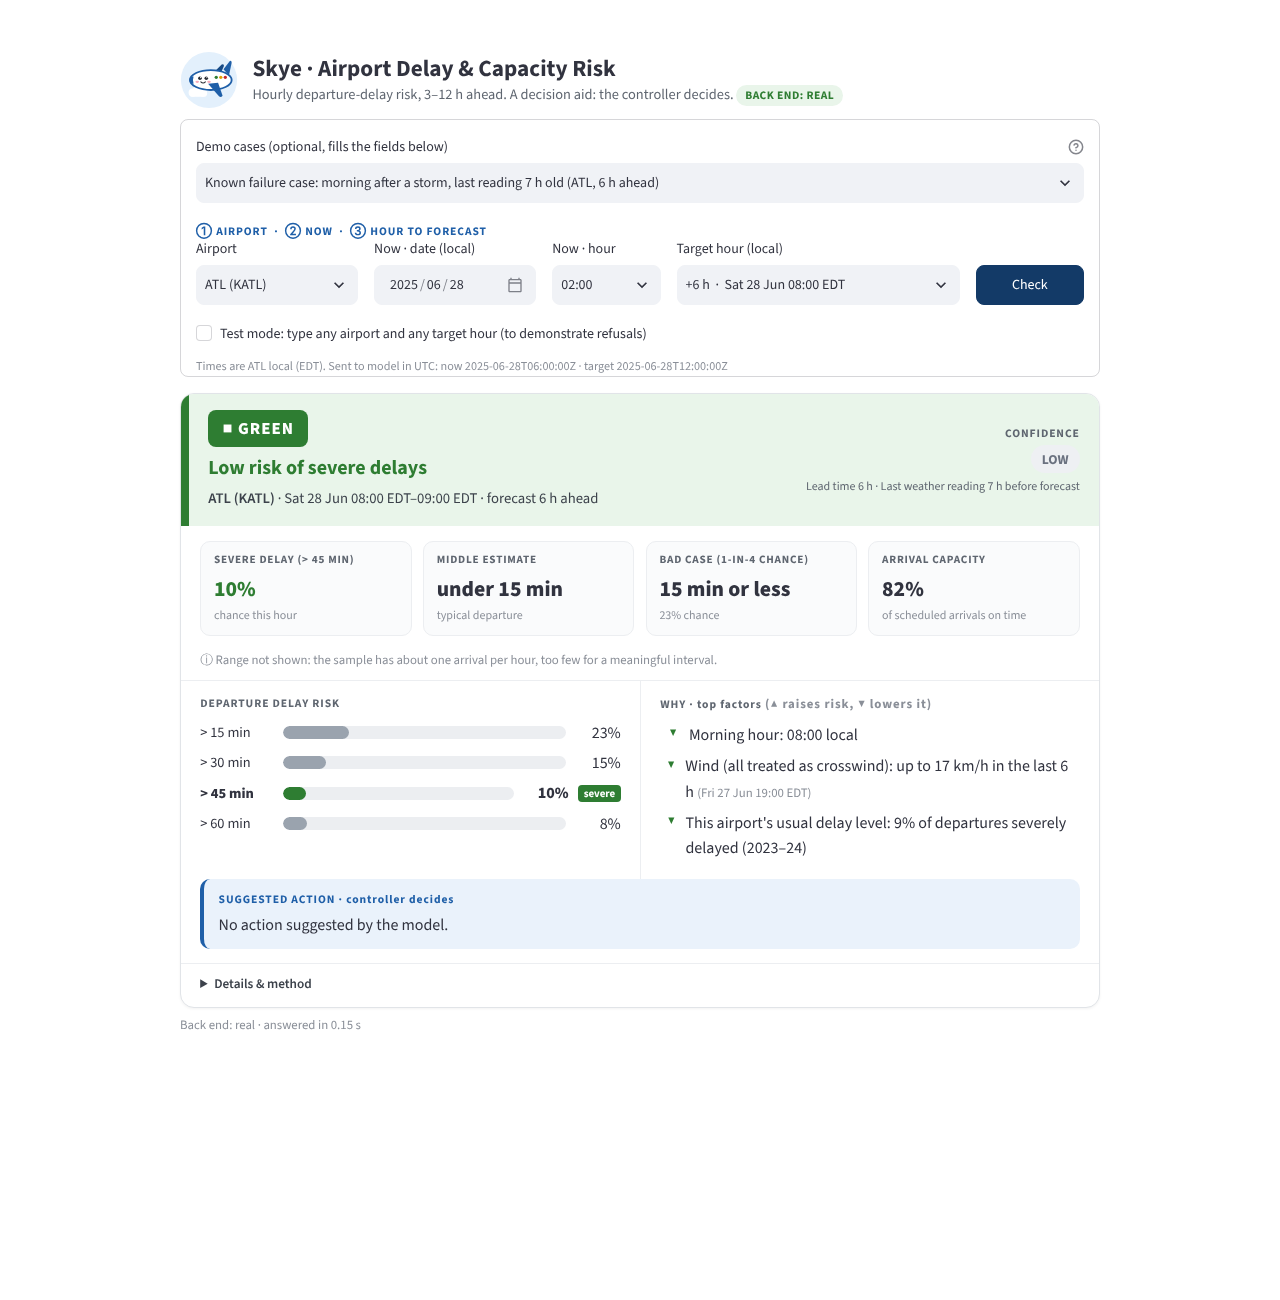
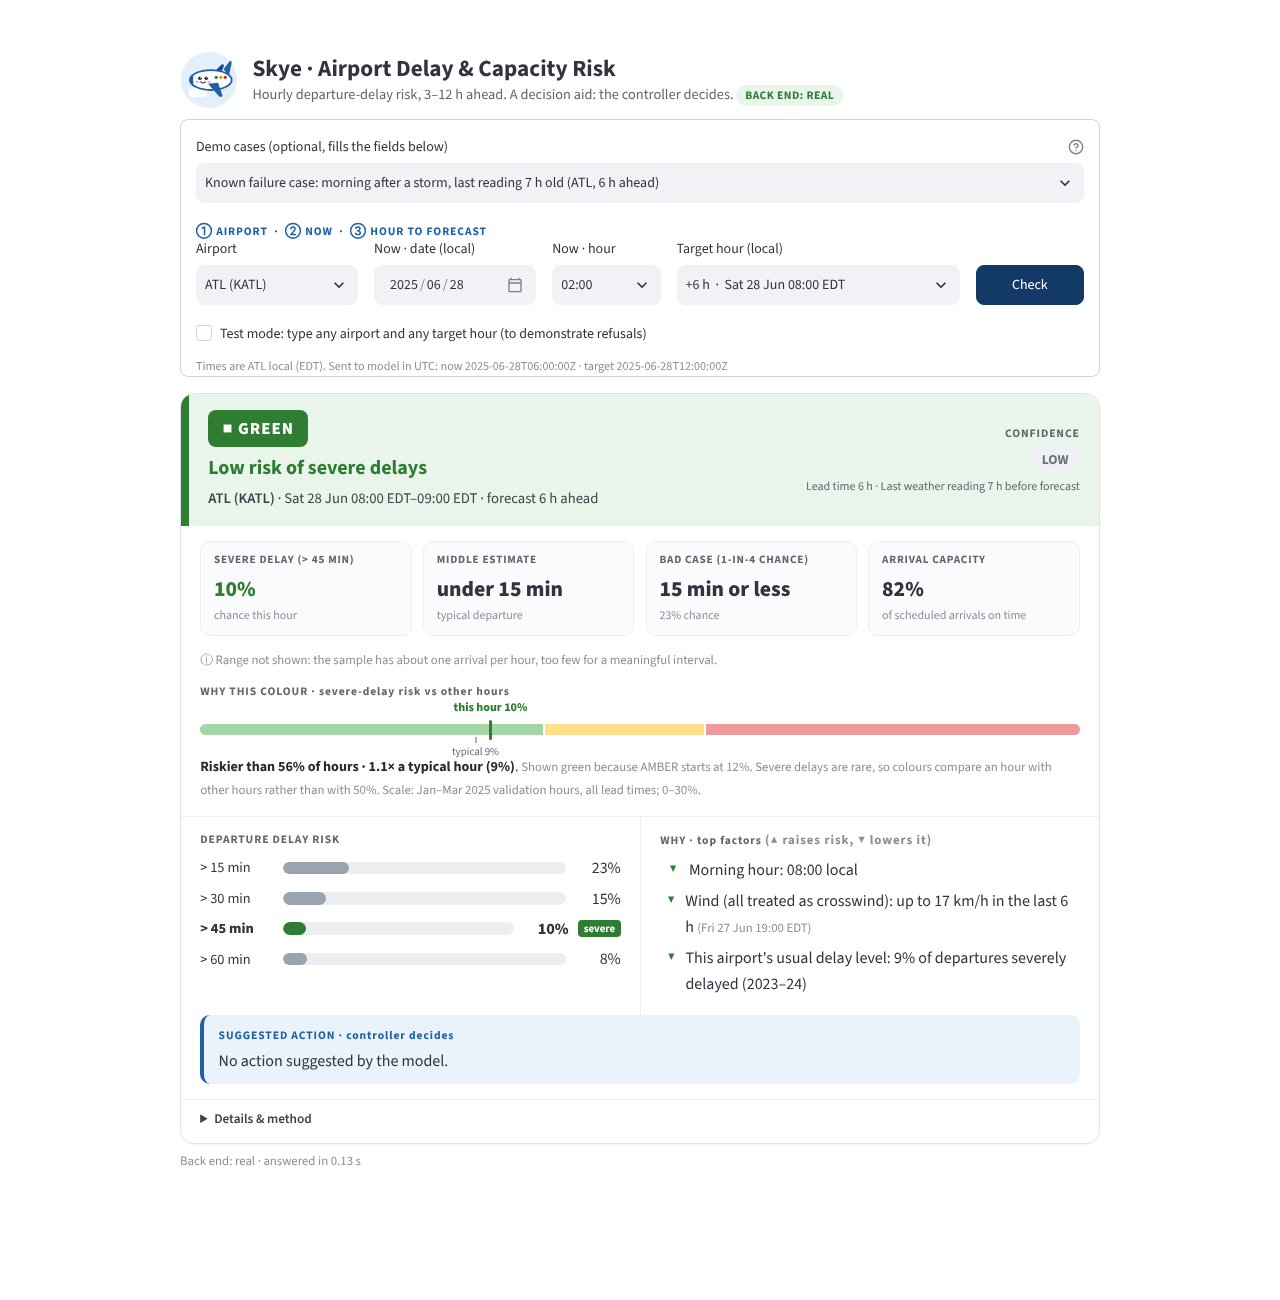
Contract v1.2: risk_context + 'why this colour' marker scale and justification (no retraining)

Changed region(s): [[0.1562, 0.5231, 0.8438, 0.8308], [0.75, 0.6769, 0.8125, 0.7077], [0.4375, 0.7077, 0.5, 0.7385]]

diff --git a/frontend/app.py b/frontend/app.py
@@ -80,6 +80,17 @@ details.more {padding:0.55rem 1.2rem 0.8rem; border-top:1px solid #eceef1; font-
 details.more summary {cursor:pointer; font-weight:600; color:#3c424b;}
 details.more div {margin-top:0.3rem;}
 .foot {margin-top:0.45rem;}
+.scale {padding:0.1rem 1.2rem 0.9rem;}
+.scale .bar {position:relative; display:flex; height:0.7rem; border-radius:99px; overflow:visible; margin:1.5rem 0 1.3rem;}
+.scale .z {height:100%;} .scale .z.g {background:#a5d6a7; border-radius:99px 0 0 99px;}
+.scale .z.a {background:#ffe08a;} .scale .z.r {background:#ef9a9a; border-radius:0 99px 99px 0;}
+.scale .mk {position:absolute; top:-1.45rem; font-size:0.75rem; font-weight:800;
+            white-space:nowrap; text-align:center; line-height:1;}
+.scale .ln {position:absolute; top:-0.3rem; height:1.25rem; width:3px; margin-left:-1.5px; border-radius:2px;}
+.scale .ty {position:absolute; top:1.05rem; transform:translateX(-50%); font-size:0.68rem; color:#5f6670; white-space:nowrap;}
+.scale .ty::before {content:''; display:block; width:1px; height:0.35rem; background:#5f6670; margin:-0.25rem auto 0.05rem;}
+.scale .cut {position:absolute; top:0; bottom:0; width:2px; background:#fff;}
+.scale .just {font-size:0.88rem; color:#262b33;} .scale .just b {font-weight:700;}
 /* other states */
 .empty {display:flex; align-items:center; gap:1rem; padding:1.2rem; border:1px dashed #c9d6e6;
         border-radius:14px; background:#f6f9fd; color:#3c424b;}
@@ -258,6 +269,24 @@ def ok_card(v: dict) -> str:
         tiles += _tile("Arrival capacity", escape(c["text"].split(" ")[0]),
                        "of scheduled arrivals on time")
 
+    sc = v.get("risk_scale")
+    scale = ""
+    if sc:
+        scale = (f"<div class='scale'><div class='sec-title'>WHY THIS COLOUR · severe-delay risk vs other hours</div>"
+                 f"<div class='bar'>"
+                 f"<div class='z g' style='width:{sc['amber']}%'></div>"
+                 f"<div class='z a' style='width:{sc['red'] - sc['amber']}%'></div>"
+                 f"<div class='z r' style='width:{100 - sc['red']}%'></div>"
+                 f"<span class='cut' style='left:{sc['amber']}%'></span><span class='cut' style='left:{sc['red']}%'></span>"
+                 f"<span class='ty' style='left:{sc['typical']}%'>typical {sc['typical_text']}</span>"
+                 f"<span class='mk' style='left:{sc['marker']}%; color:{col}; transform:translateX({sc['label_shift']}%)'>"
+                 f"this hour {sc['marker_text']}{' ▸' if sc['beyond'] else ''}</span>"
+                 f"<span class='ln' style='left:{sc['marker']}%; background:{col}'></span>"
+                 f"</div>"
+                 f"<div class='just'><b>{escape(sc['justification'])}</b>. "
+                 f"<span class='muted'>{escape(sc['why_colour'])} Scale: {escape(sc['basis'])}; "
+                 f"0–{sc['top_text']}.</span></div></div>")
+
     rows = "".join(
         f"<div class='row{' severe' if r['severe'] else ''}'><span class='lab'>{r['label']}</span>"
         f"<div class='track'><div class='fill' style='width:{r['width']:.1f}%"
@@ -299,7 +328,7 @@ def ok_card(v: dict) -> str:
     foot = (f"<div class='muted foot'>Back end: {MODE}"
             + (f" · answered in {elapsed:.2f} s" if elapsed is not None else "")
             + (" (demo data, not a forecast)" if MODE == "mock" else "") + "</div>")
-    return (f"<div class='card'>{hero}<div class='tiles'>{tiles}</div>{cap_note}"
+    return (f"<div class='card'>{hero}<div class='tiles'>{tiles}</div>{cap_note}{scale}"
             f"<div class='cols'>{risk}{why}</div>{do}{more}</div>{foot}")
 
 

diff --git a/frontend/render.py b/frontend/render.py
@@ -182,6 +182,35 @@ def delay_estimate_lines(est: dict | None) -> dict | None:
             "method": est.get("method")}
 
 
+def risk_scale_view(ctx: dict | None, p45: float | None, level: str) -> dict | None:
+    """v1.2 marker scale + one-line justification. All numbers come from the back end's
+    risk_context; this only turns them into positions (% of the bar) and words."""
+    if not ctx or p45 is None:
+        return None
+    top = ctx["scale_max"]
+
+    def pos(x):
+        return round(max(0.0, min(100.0, x / top * 100)), 1)
+
+    word = {"RED": "red", "AMBER": "amber", "GREEN": "green"}[level]
+    cut = {"RED": f"RED starts at {pct(ctx['red_min'])}",
+           "AMBER": f"AMBER starts at {pct(ctx['amber_min'])}, RED at {pct(ctx['red_min'])}",
+           "GREEN": f"AMBER starts at {pct(ctx['amber_min'])}"}[level]
+    return {
+        "marker": pos(p45), "marker_text": pct(p45),
+        # keep the label inside the bar near either end (-100% = label left of the line)
+        "label_shift": -100 if pos(p45) > 85 else (0 if pos(p45) < 15 else -50),
+        "amber": pos(ctx["amber_min"]), "red": pos(ctx["red_min"]),
+        "typical": pos(ctx["typical_p"]), "typical_text": pct(ctx["typical_p"]),
+        "beyond": p45 > top, "top_text": pct(top),
+        "justification": (f"Riskier than {ctx['percentile']}% of hours · "
+                          f"{ctx['ratio_to_typical']:.1f}× a typical hour ({pct(ctx['typical_p'])})"),
+        "why_colour": f"Shown {word} because {cut}. Severe delays are rare, so colours compare an hour "
+                      f"with other hours rather than with 50%.",
+        "basis": ctx["basis"],
+    }
+
+
 def period_banner(resp: dict) -> str | None:
     p = resp.get("data_period")
     return None if p in (None, "TEST") else PERIOD_WARNING.format(period=p)
@@ -230,6 +259,8 @@ def view_model(resp: dict) -> dict:
         "confidence_level": resp["confidence"]["level"],
         "confidence_reasons": " · ".join(resp["confidence"]["reasons"]),
         "delay_estimate": delay_estimate_lines(resp.get("delay_estimate")),
+        "risk_scale": risk_scale_view(resp.get("risk_context"), resp["hour_delay_risk"].get(f"p_gt{sev}"),
+                                      resp["risk_level"]),
         "thresholds": [f">{k}" for k in load_config()["delay_thresholds_min"]],
         "banner": period_banner(resp),
         "footer": f"Model {resp['model_version']} · generated {resp['generated_at_utc']}",

diff --git a/backend/risk_context.py b/backend/risk_context.py
@@ -1,0 +1,34 @@
+"""Where this hour's severe-delay risk sits on the scale the colours come from (v1.2).
+
+Explains the colour without changing it. The RED/AMBER cut-offs (config risk_rules, L-011) are
+the 90th/70th percentiles of hour-level P(>45) on VALIDATION. config risk_scale.quantiles holds
+the same distribution (0th–100th percentile), so:
+  typical_p        : the median validation hour (a "typical hour")
+  ratio_to_typical : P(>45) / typical_p
+  percentile       : share of validation hours with lower risk (linear between stored
+                     quantiles, capped at 99)
+run_all.py checks that the stored quantiles still match the validation predictions.
+Pure function, no model calls. Never decides the colour (backend.rules does).
+"""
+import numpy as np
+
+from backend.common import config
+
+
+def risk_context(p45: float) -> dict:
+    cfg = config()
+    rs, rr = cfg["risk_scale"], cfg["risk_rules"]
+    q = {int(k): float(v) for k, v in rs["quantiles"].items()}
+    pcts = sorted(q)
+    vals = [q[k] for k in pcts]
+    typical = q[50]
+    pctile = float(np.interp(float(p45), vals, pcts))  # clamps to 0 / 100 outside the range
+    return {
+        "typical_p": round(typical, 3),
+        "ratio_to_typical": round(float(p45) / typical, 1),
+        "percentile": min(99, int(round(pctile))),  # never "riskier than 100%"
+        "amber_min": rr["amber"]["p_gt45_min"],
+        "red_min": rr["red"]["p_gt45_min"],
+        "scale_max": float(rs["scale_max"]),
+        "basis": rs["basis"],
+    }

diff --git a/tests/test_risk_context.py b/tests/test_risk_context.py
@@ -1,0 +1,27 @@
+"""v1.2 risk_context: the explanation scale agrees with the colour cut-offs (L-027)."""
+import pytest
+
+from backend.common import config
+from backend.risk_context import risk_context
+from backend.rules import risk_level
+
+
+def test_cutoffs_sit_at_their_percentiles():
+    rr = config()["risk_rules"]
+    assert risk_context(rr["red"]["p_gt45_min"])["percentile"] == 90
+    assert risk_context(rr["amber"]["p_gt45_min"])["percentile"] == 70
+    assert risk_context(config()["risk_scale"]["quantiles"][50])["ratio_to_typical"] == 1.0
+
+
+@pytest.mark.parametrize("p", [0.0, 0.05, 0.09, 0.116, 0.117, 0.15, 0.171, 0.172, 0.25, 0.4, 0.99])
+def test_percentile_agrees_with_colour(p):
+    c, lvl = risk_context(p), str(risk_level([p])[0])
+    assert 0 <= c["percentile"] <= 99
+    assert (c["percentile"] >= 90) == (lvl == "RED") or abs(p - c["red_min"]) < 0.002
+    assert c["ratio_to_typical"] == round(p / c["typical_p"], 1)
+
+
+def test_monotonic_in_p():
+    ps = [i / 200 for i in range(0, 120)]
+    pc = [risk_context(p)["percentile"] for p in ps]
+    assert pc == sorted(pc)

diff --git a/backend/api.py b/backend/api.py
@@ -21,6 +21,7 @@ from backend.common import config, path
 from backend.features import FEATURES, MAX_OBS_AGE_H
 from backend.rules import recommendation
 from backend.delay_estimate import delay_estimate
+from backend.risk_context import risk_context
 
 SCHEMA_VERSION = config()["schema_version"]
 PKEYS = ["p_gt15", "p_gt30", "p_gt45", "p_gt60"]
@@ -177,7 +178,8 @@ def _predict(req, airport, target_hour_utc, now_utc):
         "risk_level": level, "hour_delay_risk": risk, "capacity": capacity, "drivers": why,
         "recommendation": rec, "confidence": {"level": conf, "reasons": reasons},
         "weather_basis": {"last_obs_utc": _fmt(last_obs), "obs_age_h": age},
-        "delay_estimate": estimate, "data_period": period, "model_version": card["model_version"],
+        "delay_estimate": estimate, "risk_context": risk_context(risk["p_gt45"]),
+        "data_period": period, "model_version": card["model_version"],
         "generated_at_utc": _fmt(now),  # = forecast issue time; keeps responses deterministic (D-027)
         "refusal": None, "error": None,
     }

diff --git a/tests/test_render.py b/tests/test_render.py
@@ -143,3 +143,16 @@ def test_target_options_never_skip_an_hour_on_dst():
     opts = R.target_options(now)
     assert [h for h, _ in opts] == list(range(3, 13))
     assert all((t - now).total_seconds() == h * 3600 for h, t in opts)
+
+
+def test_risk_scale_positions_and_text_from_backend():
+    """v1.2: marker scale uses only risk_context numbers; text explains, never re-decides."""
+    sc = R.view_model(RED)["risk_scale"]
+    ctx = RED["risk_context"]
+    assert sc["amber"] == round(ctx["amber_min"] / ctx["scale_max"] * 100, 1)
+    assert sc["red"] == round(ctx["red_min"] / ctx["scale_max"] * 100, 1)
+    assert sc["marker"] == 100.0 and sc["beyond"]            # 38% is past the 30% scale end
+    assert sc["justification"] == f"Riskier than {ctx['percentile']}% of hours · " \
+                                  f"{ctx['ratio_to_typical']:.1f}× a typical hour (9%)"
+    assert "RED starts at 17%" in sc["why_colour"]
+    assert R.risk_scale_view(None, 0.2, "RED") is None

diff --git a/tests/test_contract.py b/tests/test_contract.py
@@ -112,6 +112,17 @@ def test_response(case, responses):
     from backend.delay_estimate import delay_estimate as _de
     assert r["delay_estimate"] == _de(risk)
     assert "flights" not in r
+    # risk context (v1.2): explains the colour on the same validation scale, never contradicts it
+    from backend.risk_context import risk_context as _rc
+    ctx = r["risk_context"]
+    assert ctx == _rc(risk["p_gt45"])
+    assert ctx["amber_min"] < ctx["red_min"]
+    if r["risk_level"] == "RED":
+        assert ctx["percentile"] >= 89 and ctx["ratio_to_typical"] > 1
+    elif r["risk_level"] == "AMBER":
+        assert 69 <= ctx["percentile"] <= 91
+    else:
+        assert ctx["percentile"] <= 71
     # data period
     exp_period = ("TRAIN" if req["target_hour_utc"] < "2025-01-01" else
                   "VALIDATION" if req["target_hour_utc"] < "2025-04-01" else "TEST")

diff --git a/run_all.py b/run_all.py
@@ -128,6 +128,11 @@ def stage_model(run_test: bool) -> bool:
             or rr["amber"].get("capacity_index_max") is not None:
         sys.exit(f"config/config.yaml risk_rules do not match the validation-tuned values {thr} "
                  "with capacity conditions null (L-011). Update config via a joint PR.")
+    # v1.2 (L-027): the explanation scale must describe the same validation distribution
+    rs_q = {int(k): float(v) for k, v in config()["risk_scale"]["quantiles"].items()}
+    got_q = {k: round(float(np.quantile(vh["p45"].to_numpy(), k / 100)), 3) for k in rs_q}
+    if got_q != rs_q:
+        sys.exit(f"config/config.yaml risk_scale.quantiles do not match validation: {got_q}")
     T = None
     if run_test:
         print("[B2.9] single TEST-set run (tuning frozen)")

diff --git a/HANDOVER.md b/HANDOVER.md
@@ -2,6 +2,7 @@
 
 **Who this is for:** a new team that has never seen this project. Read this file first. It explains what the product does, how it's built, how to run it, how to change it safely, and what's unfinished.
 **Version at handover:** v1.1 (git tag `v1.1-handover`) · data contract v1.1 · 134 automated tests passing.
+**Since handover (v1.2):** UI refresh with the Skye mascot (tag `v1.2-ui`); contract v1.2 adds `risk_context` and a "WHY THIS COLOUR" marker scale (L-026, L-027). **150 tests passing.**
 
 ---
 
@@ -37,7 +38,7 @@ The first start installs Python packages (internet needed once). The browser the
 python3.11 -m venv .venv && source .venv/bin/activate     # Windows: .venv\Scripts\activate
 pip install -r requirements.txt
 python run_all.py                 # rebuild everything from the raw CSV (~2 min)
-python -m pytest -q               # expect 134 passed
+python -m pytest -q               # expect 150 passed
 python scripts/smoke_real.py      # real predict() on the demo cases + refusal cases
 BACKEND=real streamlit run frontend/app.py      # Windows: set BACKEND=real & streamlit run frontend\app.py
 ```
@@ -60,7 +61,7 @@ data/raw/Flight_Data_With_Weather_Final.csv   (provided; never edited)
 │   uses: features.Context.hour_features · rules.py (colour + DO) · drivers.py (WHY)    │
 │         delay_estimate.py (likely-delay range) · confidence rules (config)            │
 └──────────────────────────────────────┬───────────────────────────────────┘
-                                       │ dict that follows contract/schema.json (v1.1)
+                                       │ dict that follows contract/schema.json (v1.2)
 ┌──────────────────────────────────────▼───────────────────────────────────┐
 │ FRONT END (frontend/, Streamlit)                                          │
 │ backend_adapter.py picks real/mock and never crashes · app.py draws the page │
@@ -81,7 +82,7 @@ data/raw/Flight_Data_With_Weather_Final.csv   (provided; never edited)
 | `frontend/` | Streamlit dashboard |
 | `run_all.py` | One command: data → features → baselines → models → evaluation → test run → demo cases → severe-delay date list |
 | `scripts/` | `smoke_real.py` (end-to-end check) · `list_severe_dates.py` · `setup_and_run.sh/.bat` (full rebuild + tests + run) |
-| `tests/` | 134 tests: contract, leakage, monotonicity, wind maths, rendering, adapter, demo cases |
+| `tests/` | 150 tests: contract, leakage, monotonicity, wind maths, rendering, adapter, demo cases |
 | `models/` | Trained models (rebuilt by `run_all.py`; shipped in the package for convenience) |
 | `reports/` | Evidence: `validation_report.md`, `metrics.md`, `failure_cases.md`, `demo_cases.json/.md`, `severe_delay_dates.md`, `decisions_log.md`, figures, screenshots |
 | `story/` | Draft pitch material (user story, why 3–12 h, pitch outline, limitations) |
@@ -111,6 +112,7 @@ data/raw/Flight_Data_With_Weather_Final.csv   (provided; never edited)
   - Accuracy is almost flat from 3 h to 12 h. About 58% of the signal is season, time of day and traffic; storm features contributed ~0% (too few storm hours in the sample).
   - Thresholds come from winter validation data, so **in summer about 1 hour in 4 is RED**.
   - Full tables: `reports/metrics.md`. Failure cases: `reports/failure_cases.md` (e.g. ATL 28 Jun 2025 08:00, a miss the morning after a storm, last reading 7 h old; the tool *did* say LOW confidence).
+- **Risk context (v1.2, `backend/risk_context.py`):** places P(>45) on the validation distribution the cut-offs come from: typical hour = median 9.4%, RED (17.2%) = 90th percentile, AMBER (11.7%) = 70th. Gives the "riskier than X% of hours · N× a typical hour" line. Explains the colour, never changes it.
 - **Likely delay (v1.1, `backend/delay_estimate.py`):** derived from the 4 probabilities, no extra model.
   - Middle estimate = the first k where P(> k) < 0.5 gives the band below k.
   - Bad case = the largest k with P(> k) ≥ 0.25.
@@ -120,7 +122,7 @@ data/raw/Flight_Data_With_Weather_Final.csv   (provided; never edited)
 
 ## 7. How to change things (recipes)
 
-> **Before any change:** run `python -m pytest -q` (expect 134 passed). After it: run it again, plus `python scripts/smoke_real.py`. Log every decision in `reports/decisions_log.md`.
+> **Before any change:** run `python -m pytest -q` (expect 150 passed). After it: run it again, plus `python scripts/smoke_real.py`. Log every decision in `reports/decisions_log.md`.
 
 ### 7.1 Change a threshold or setting (no code)
 Edit `config/config.yaml`:

diff --git a/reports/decisions_log.md b/reports/decisions_log.md
@@ -101,3 +101,4 @@ Every deviation from the project documents (01–06) is recorded here: what, why
 | L-025 | Open: updated brief's wind-direction file (challenge5_hourly_weather_ATL_DFW.csv) never received; top backlog item in HANDOVER.md §9 |
 
 | L-026 | UI v1.2 refresh (front end only, contract unchanged): Skye mascot (frontend/assets/skye.svg), risk-tinted result header with plain headline, colour-coded confidence pill, 4 headline tiles, WHY ▲/▼ arrows, blue suggested-action box, rule/method/UTC moved into collapsible "Details & method". Colours map the back end's level only (render.LEVEL_STYLE / CONFIDENCE_STYLE); no front-end thresholds. Screenshots: reports/figures/ui_v12_real_*.png |
+| L-027 | Contract v1.2: new required `risk_context` on ok responses (typical_p = median validation-hour P(>45) 0.094, ratio_to_typical, percentile capped at 99, amber_min, red_min, scale_max 0.30, basis). Explains the colour on the same validation distribution as the L-011 cut-offs; never changes it. Quantiles stored in config `risk_scale`; run_all checks they match validation. UI: "WHY THIS COLOUR" marker scale + one-line justification. No retraining, test set not used. |

diff --git a/HOW_TO_RUN_AND_TEST.md b/HOW_TO_RUN_AND_TEST.md
@@ -33,6 +33,7 @@ The first start takes a few minutes while it installs packages. Then your browse
 - [ ] Four tiles: **Severe delay (> 45 min)**, **Middle estimate**, **Bad case**, **Arrival capacity**
 - [ ] Four percentage bars, with **> 45 min** marked "severe" in the risk colour
 - [ ] Grey ⓘ note under the tiles explaining why no capacity range is shown
+- [ ] **WHY THIS COLOUR** scale: green/amber/red zones, a marker for this hour, a "typical" tick, and a line like "Riskier than 99% of hours · 4.3× a typical hour (9%)"
 - [ ] WHY lists factors with ▲ (raises risk) / ▼ (lowers risk). Times are before "now"; older readings show their date.
 - [ ] Blue **SUGGESTED ACTION** box
 - [ ] **Details & method** (click to open) shows the rule, the method and the UTC request
@@ -53,6 +54,6 @@ Tick **Test mode**, type airport **ORD**, press Check → "Airport not in data".
 ## 5. Optional full check (technical)
 ```
 python run_all.py            # rebuild everything from the data (~2 min)
-python -m pytest -q          # 134 passed
+python -m pytest -q          # 150 passed
 python scripts/smoke_real.py # end-to-end check
 ```

diff --git a/docs/04_Data_Contract.md b/docs/04_Data_Contract.md
@@ -1,3 +1,5 @@
+> **v1.2 (L-027):** new required `risk_context` on `ok` responses: `{typical_p, ratio_to_typical, percentile, amber_min, red_min, scale_max, basis}`; config adds `risk_scale`. `contract/schema.json` is authoritative.
+
 # 04 · Data Contract: The Rules Both Back End and Front End Must Follow
 
 > **CURRENT VERSION: v1.1** (see `docs/16_Change_List_v1.1.md`). Changes since v1.0: **`flights` removed** (no simulated flight list). **New required `delay_estimate`** on `ok` responses: `{typical_text, bad_case_text, bad_case_prob, bad_case_level, method}`. `config.yaml`: `flight_list` replaced by `delay_estimate: {typical_prob, bad_case_prob}`. Where this document still mentions flights or SIMULATED rows, those parts are historical. **`contract/schema.json` is authoritative.**
